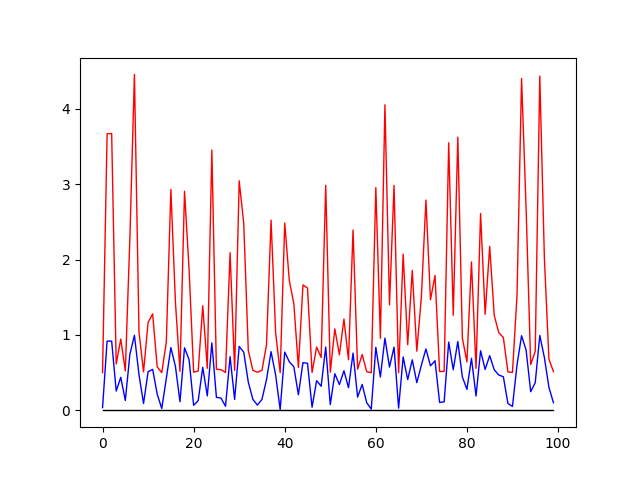
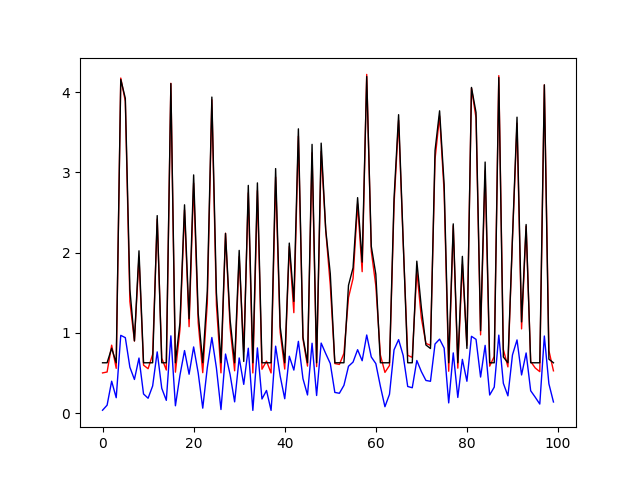
done

diff --git a/Nodes/Nodes.h b/Nodes/Nodes.h
@@ -11,9 +11,14 @@ public:
     std::vector<Node*> inputs; 
     std::vector<double> weights_inputs; 
     std::vector<double> weights_gradients; 
+    std::vector<double> adam_grad;
+    std::vector<double> adam_grad_sq;
     double current_value; 
     Activation act; 
-    double gradient; 
+    double gradient;
+    double adam_grad_bias;
+    double adam_grad_sq_bias; 
+    double t = 0;
 
     virtual double forward() = 0;
     virtual void backward() = 0;
@@ -28,6 +33,7 @@ public:
         current_value = 0;
     }
     double forward() override{
+        t += 1;
         return current_value;
     }
     void backward() override {}
@@ -40,14 +46,22 @@ public:
     BiasNode(){
         current_value = 0;
         gradient = 0;
+        adam_grad_bias = 0;
+        adam_grad_sq_bias = 0;
         act = Activation::Lin;
     }
     double forward() override {
+        t += 1;
         return current_value;
     }
     void backward() override {}
     void step(double learningRate) override {
-        current_value -= gradient * learningRate;
+        adam_grad_bias = 0.9 * adam_grad_bias + (1 - 0.9) * gradient;
+        adam_grad_sq_bias = 0.999 * adam_grad_sq_bias + (1 - 0.999) * gradient * gradient;
+        double bias_correction = 1 - pow(0.9, t);
+        double bias_correction_sq = 1 - pow(0.999, t);
+        current_value -= learningRate * (adam_grad_bias / bias_correction) / (sqrt(adam_grad_sq_bias / bias_correction_sq) + 1e-8);
+        // current_value -= learningRate * ((adam_grad / bias_correction) / (adam_grad_sq / sqrt(bias_correction_sq + 1e-8)));
     }
     void zero_grad() override {
         gradient = 0;
@@ -64,15 +78,19 @@ public:
 
     void step(double learningRate) override {
         for(int i = 0; i < weights_inputs.size(); i++) {
-            weights_inputs[i] -= learningRate * weights_gradients[i]; 
+            adam_grad[i] = 0.9 * adam_grad[i] + (1 - 0.9) * weights_gradients[i];
+            adam_grad_sq[i] = 0.999 * adam_grad_sq[i] + (1 - 0.999) * gradient * gradient;
+            double bias_correction = 1 - pow(0.9, t);
+            double bias_correction_sq = 1 - pow(0.999, t);
+            weights_inputs[i] -= learningRate * (adam_grad[i] / bias_correction) / (sqrt(adam_grad_sq[i] / bias_correction_sq) + 1e-8);
         }
     }
 
     void zero_grad() override {
         for(int i = 0; i < weights_gradients.size(); i++) {
             weights_gradients[i] = 0;
-            gradient = 0;
         }
+        gradient = 0;
     }
 };
 

diff --git a/Nodes/Nodes.cpp b/Nodes/Nodes.cpp
@@ -7,17 +7,22 @@ HiddenNode::HiddenNode(std::vector<Node*> inputs_arg, Activation act_arg){
     act = act_arg;
     // Инициализация остальных членов базового класса
     weights_inputs.resize(inputs.size());
+    adam_grad.resize(inputs.size());
+    adam_grad_sq.resize(inputs.size());
     weights_gradients.resize(inputs.size());
     for(int i = 0; i < inputs.size(); i++) {
         weights_inputs[i] = RandomGen::getVal();
-        weights_gradients[i] = RandomGen::getVal(); // NormalGen::getVal()
+        weights_gradients[i] = 0; // NormalGen::getVal()
+        adam_grad[i] = 0;
+        adam_grad_sq[i] = 0;
     }
     current_value = 0;
     gradient = 0;
 }
 
 double HiddenNode::forward() {
-    double tempSum = 0;
+    t += 1;
+    double tempSum = 0;   
     for (size_t i = 0; i < inputs.size(); i++) {
         tempSum += inputs[i]->forward() * weights_inputs[i];
     }
@@ -27,9 +32,11 @@ double HiddenNode::forward() {
 
 void HiddenNode::backward() {
     for(int i = 0; i < inputs.size(); i++) {
-        double input_gradient = gradient * weights_inputs[i] * DerivativeFunctions::apply(act, inputs[i]->current_value);
+        // double input_gradient = gradient * weights_inputs[i] * DerivativeFunctions::apply(inputs[i]->act, inputs[i]->current_value);
+        double input_gradient = gradient * weights_inputs[i] * DerivativeFunctions::apply(act, current_value);
         inputs[i]->gradient += input_gradient;
-        weights_gradients[i] = input_gradient * inputs[i]->current_value; // Градиент для веса
+        // weights_gradients[i] = input_gradient * inputs[i]->current_value; // Градиент для веса
+        weights_gradients[i] = gradient * inputs[i]->current_value; // Градиент для веса
     }
 }
 

diff --git a/Learning/Learning.cpp b/Learning/Learning.cpp
@@ -18,8 +18,8 @@ void LearningProcess::run(NeuralNetwork* nn, DataGen* dg) {
         for(int j = 0; j < dg->x.size(); j++) {
             data[0] = dg->x[j];
             prediction = nn->forward(data);
-            total_loss += loss_function(prediction, dg->y[j]);
-            nn->layers.back()[0]->gradient = loss_function_der(prediction, dg->y[j]) * DerivativeFunctions::apply(nn->layers.back()[0]->act, nn->layers.back()[0]->current_value);
+            total_loss += LearningProcess::loss_function(prediction, dg->y[j]);
+            nn->layers.back()[0]->gradient = LearningProcess::loss_function_der(prediction, dg->y[j]) * DerivativeFunctions::apply(nn->layers.back()[0]->act, nn->layers.back()[0]->current_value);
             nn->backward();
             nn->step(learningRate);
             nn->zero_grad();

diff --git a/main.cpp b/main.cpp
@@ -9,15 +9,19 @@
 
 
 int main() {
-    std::vector<std::pair<int, Activation>> config = {{1, Activation::Lin}, {20, Activation::ReLU}, {20, Activation::ReLU}, {1, Activation::ReLU}};
+    std::vector<std::pair<int, Activation>> config = {{1, Activation::ReLU}, {2, Activation::ReLU}, {2, Activation::ReLU}, {1, Activation::ReLU}};
     NeuralNetwork nn(config);
     int N = 100;
     DataGen dg(N);
     showInfoPred(&nn, &dg, 10);
-    LearningProcess lp(0.1, 100);
+    // show_weights(&nn);
+    LearningProcess lp(0.01, 100);
     lp.run(&nn, &dg);
     showInfoPred(&nn, &dg, 10);   
     Plotter plot;
     std::vector<double> out = predict(&nn, &dg);
     plot.plot(dg.x, dg.y, out, "/home/adanilishin/Graph");
+    // show_weights(&nn);
+    // show_grads(&nn);
+    return 0;
 }

diff --git a/NeuralNetwork/NeuralNetwork.cpp b/NeuralNetwork/NeuralNetwork.cpp
@@ -25,7 +25,7 @@ double NeuralNetwork::forward(std::vector<double>& inputs_data) {
 }
 
 void NeuralNetwork::backward() {
-    for (int i = layers.size() - 1; i >= 0; --i) {
+    for (int i = layers.size() - 1; i >= 1; --i) {
         for(int j = 0; j < layers[i].size(); j++) {
             layers[i][j]->backward();
         }
